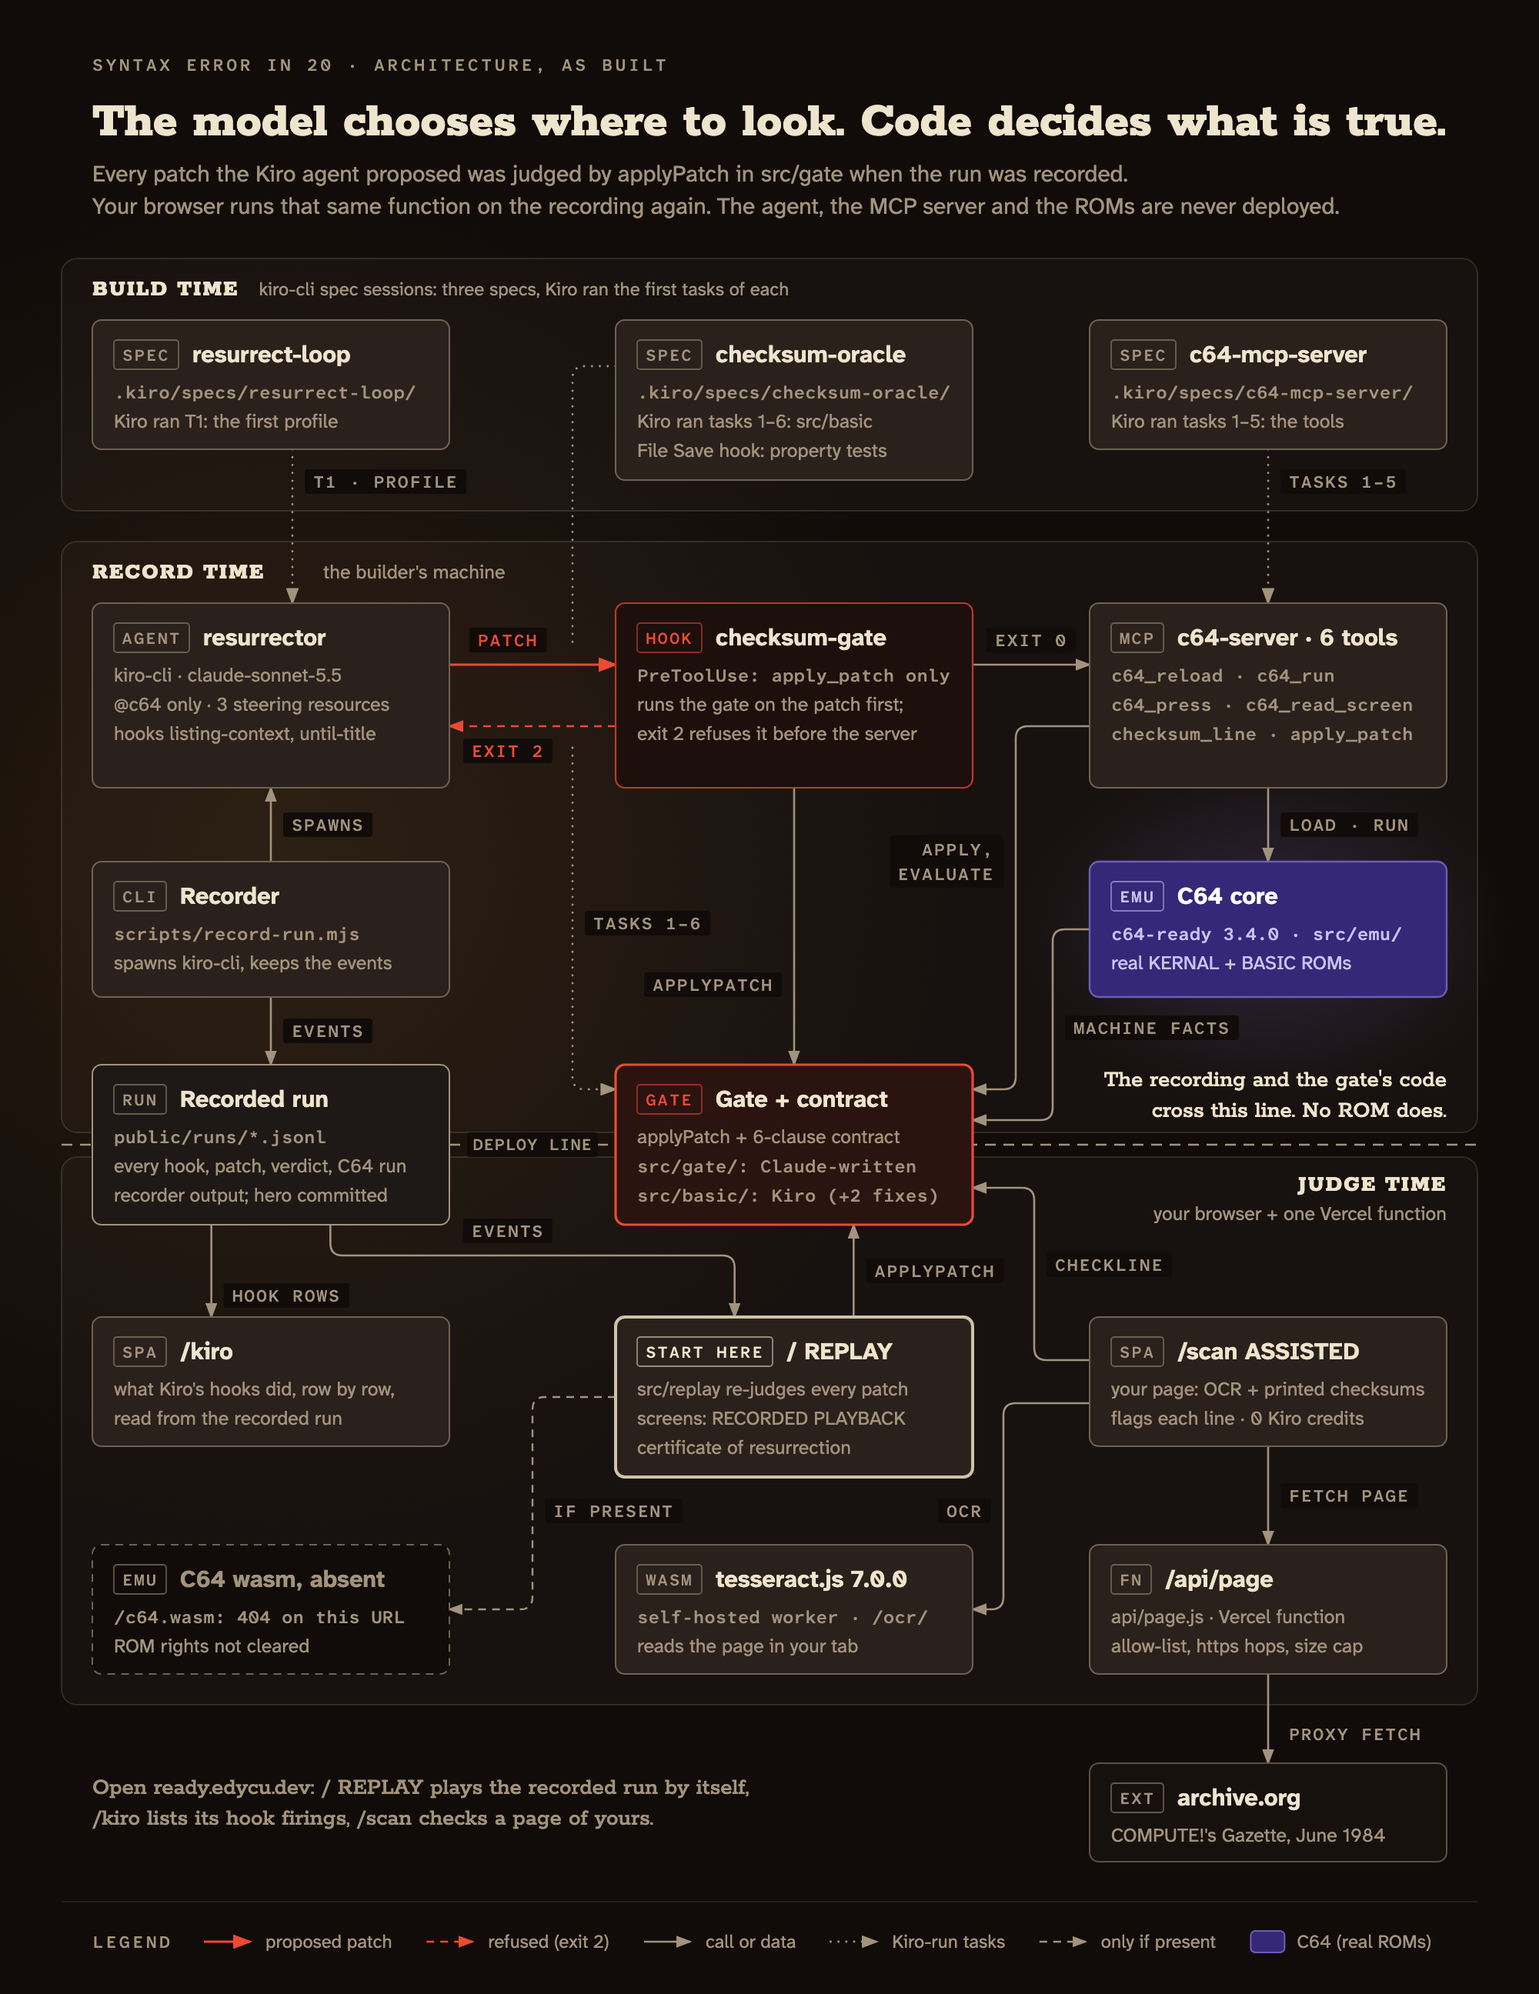
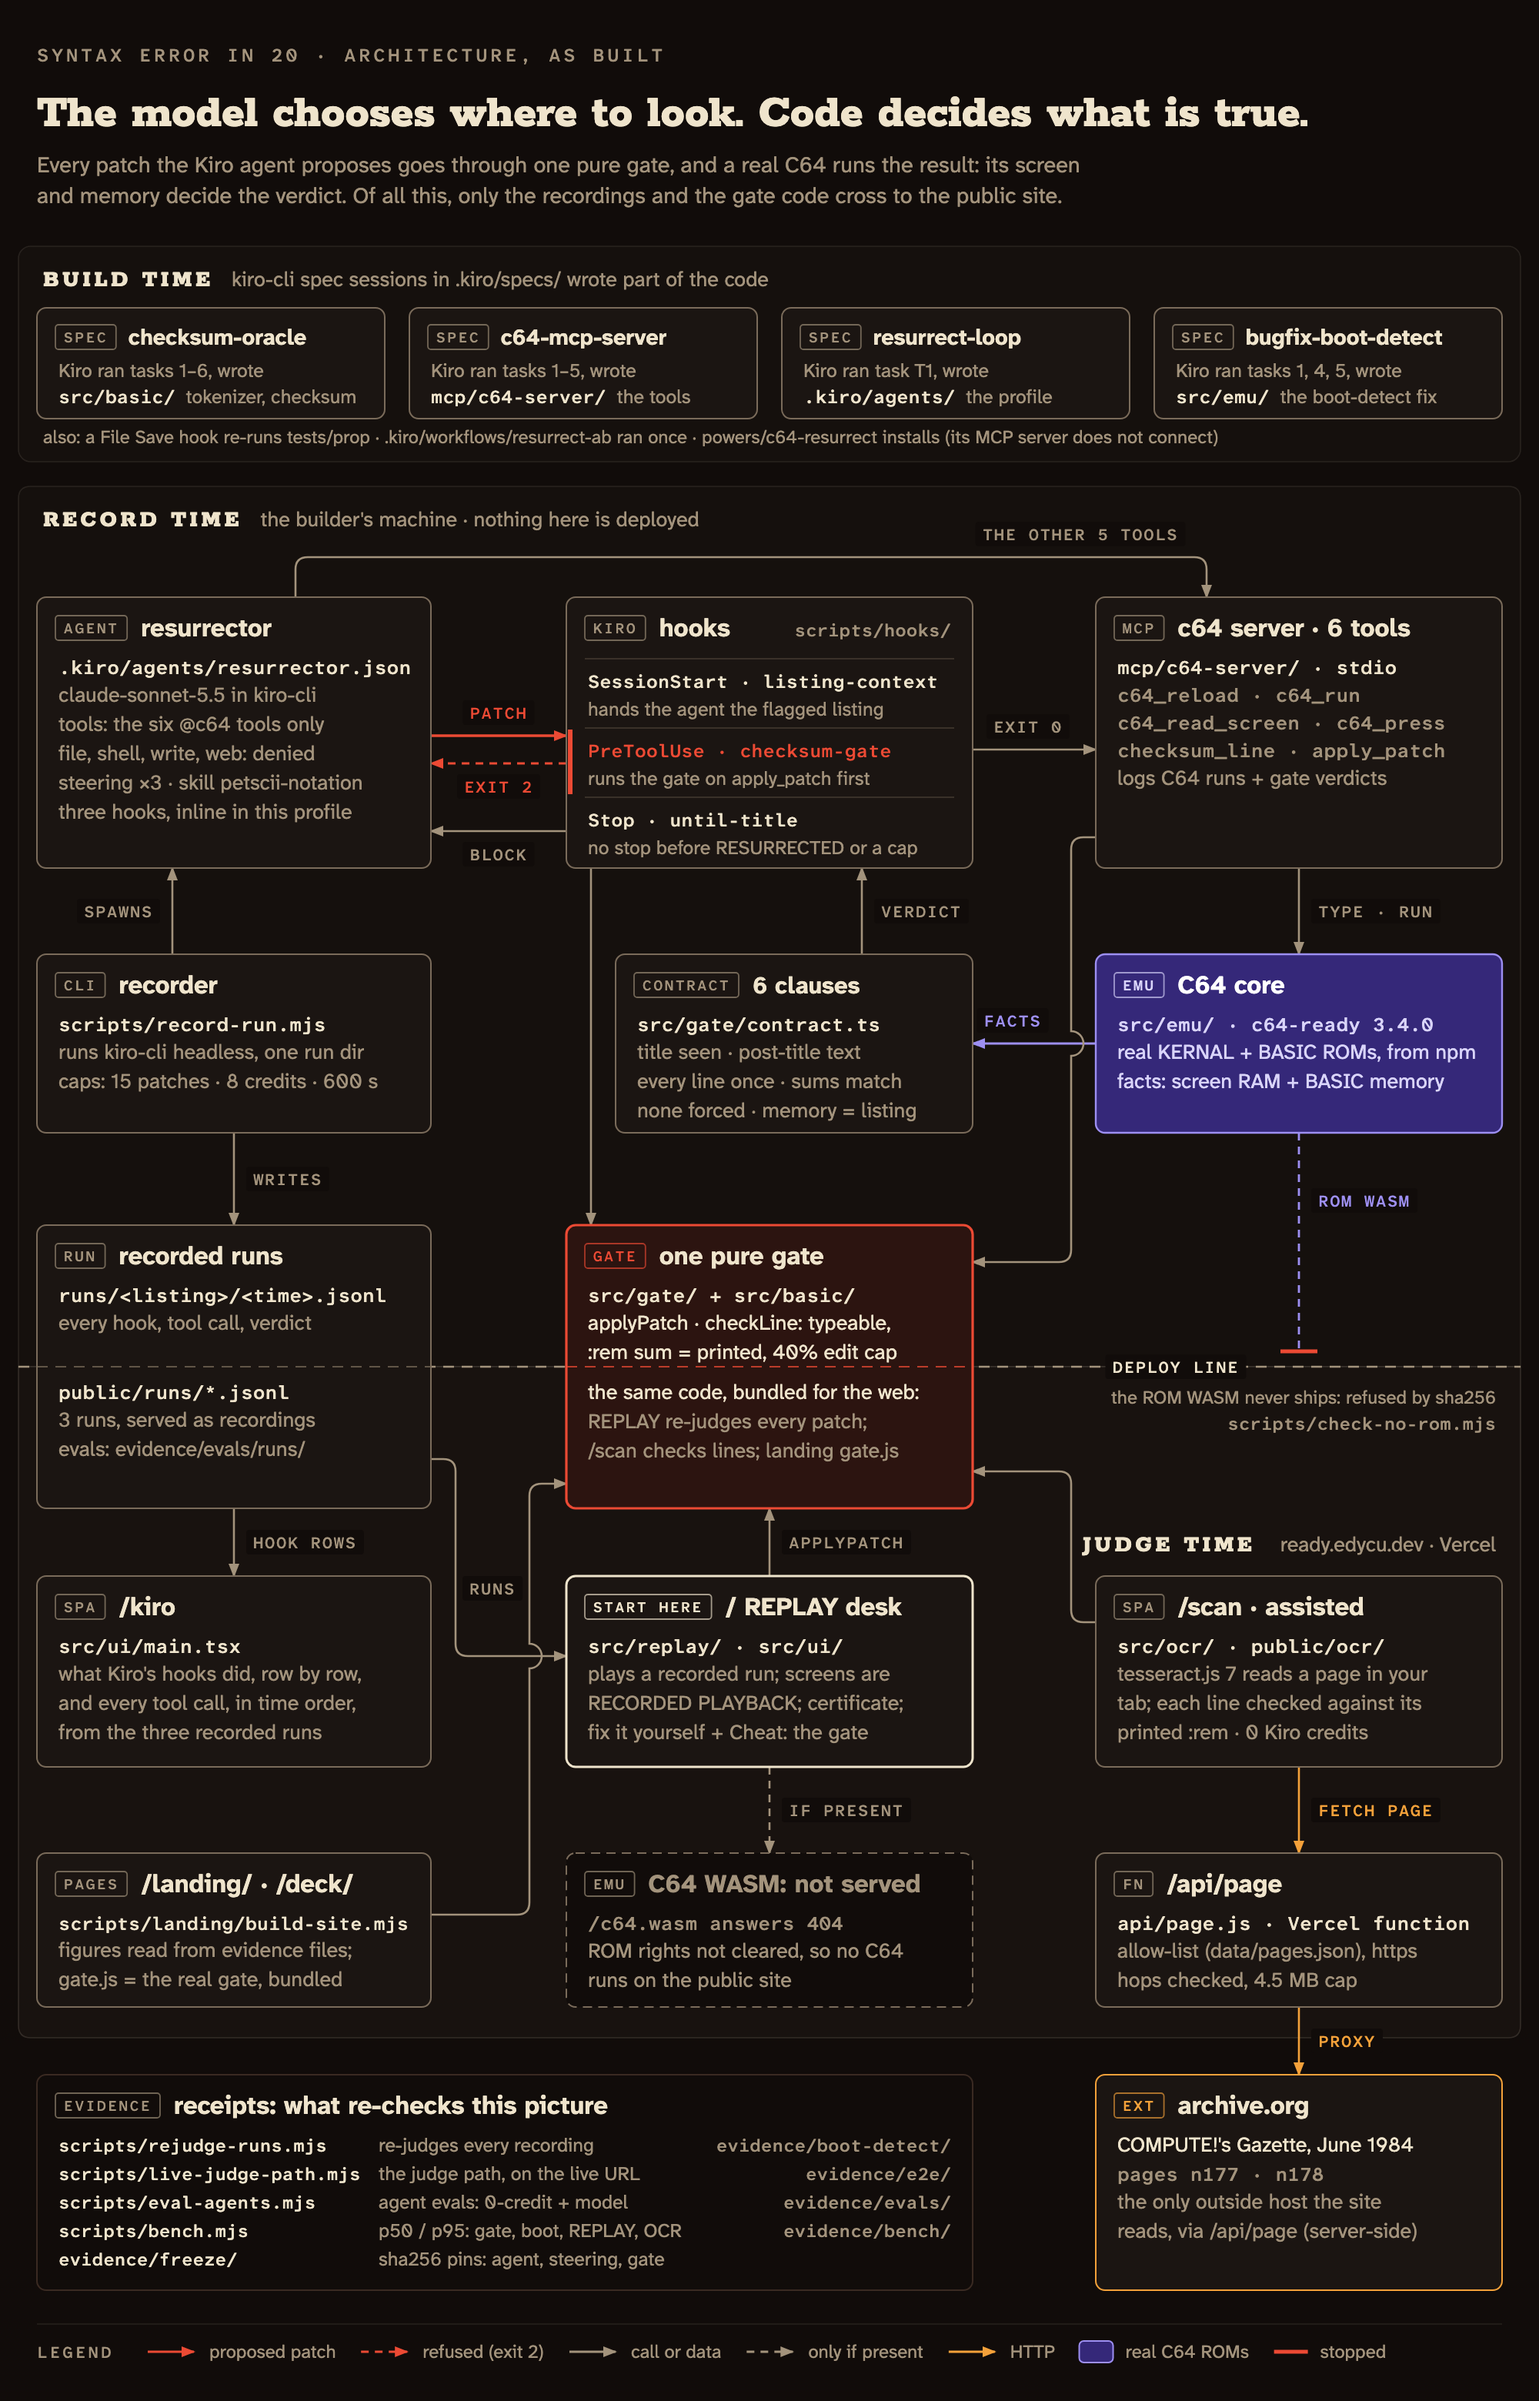
docs: architecture diagram v2, drawn from the code as built — one pure gate on the deploy line with its five callers (PreToolUse hook, MCP apply_patch, REPLAY, /scan checkLine, landing gate.js), the hook/stop/verdict loop, the 6-clause contract fed by the C64's facts, the ROM WASM stopped by sha256,

diff --git a/ARCHITECTURE.md b/ARCHITECTURE.md
@@ -1,45 +1,66 @@
 # Architecture
 
-Three times matter: **build time** (Kiro specs and tasks wrote the tokenizer/checksum oracle and the MCP tool layer; the gate, contract, `server.ts` and REPLAY were `claude-direct`), **record time** (a Kiro
+Three times matter: **build time** (Kiro specs and tasks wrote the tokenizer/checksum oracle, the MCP tool layer, the agent
+profile and the boot-detect fix; the gate, contract, `server.ts` and REPLAY were `claude-direct`), **record time** (a Kiro
 agent fixes a listing through the gate on the builder's machine), and **judge time** (the visitor's browser replays and
-re-judges that recording). Everything below exists in this repository.
+re-judges that recording). One pure gate, `src/gate/`, sits on the deploy line: the Kiro PreToolUse hook and the MCP
+server call it at record time, and REPLAY, `/scan` and the landing page's `gate.js` call the same file in the browser.
+Everything below exists in this repository.
 
-<img src="docs/architecture.png" alt="Architecture, as built, at three times. Build time: three Kiro specs run in kiro-cli sessions; Kiro ran the first tasks of each, writing the tokenizer, the checksum and the MCP tools. Record time, on the builder's machine: a recorder spawns the Kiro agent resurrector; its apply_patch calls pass the PreToolUse checksum-gate hook (exit 2 refuses) to a six-tool MCP server that drives a C64 core with the real ROMs and calls the gate and its contract. The recorded run and the gate's code cross to the browser; the agent, the MCP server and the ROMs are never deployed. At ready.edycu.dev, REPLAY re-runs the gate on every recorded patch over recorded screens, /kiro lists the hook firings, and /scan reads a page with self-hosted tesseract.js and checks each line against its printed checksum and flags the mismatches, fetching page images from archive.org through one allow-listed Vercel function. No C64 runs on the public URL." width="100%">
+<img src="docs/architecture.png" alt="Architecture, as built. Build time: four Kiro specs (checksum-oracle, c64-mcp-server, resurrect-loop, bugfix-boot-detect) wrote src/basic, the MCP tools, the agent profile and the boot-detect fix. Record time, on the builder's machine: the recorder spawns the Kiro agent resurrector (claude-sonnet-5.5, only the six @c64 tools); its apply_patch calls pass the PreToolUse checksum-gate hook (exit 2 refuses) to a six-tool MCP server, the other five tools go straight to the server; the server types and runs the listing on a C64 core with the real ROMs, the C64's screen and memory feed a six-clause contract, and the Stop hook until-title blocks the agent's stop until the contract says RESURRECTED or a cap hits. One pure gate in src/gate straddles the deploy line, called by the hook and the MCP server above it and by REPLAY, /scan and the landing page below it. The recorded runs straddle the line too; the ROM-bearing C64 WASM is stopped at it by a sha256 check. At ready.edycu.dev: / REPLAY re-judges every recorded patch over recorded screens, /kiro lists the hook firings, /scan reads a page with self-hosted tesseract.js and checks each line against its printed checksum, fetching archive.org pages through the /api/page function. Receipts: rejudge-runs, live-judge-path, eval-agents, bench and the sha256 freeze pins." width="100%">
 
 The same map as text:
 
 ```mermaid
-flowchart LR
-  subgraph record["Record time (builder machine)"]
-    REC["scripts/record-run.mjs"] --> KIRO["kiro-cli: agent resurrector (.kiro/agents)"]
-    KIRO -->|"MCP stdio, 6 tools"| MCP["mcp/c64-server"]
-    HOOKS["hooks: listing-context, checksum-gate, until-title (+ prop-tests-on-save at build time)"] -.-> KIRO
-    STEER[".kiro/steering + skill petscii-notation"] -.-> KIRO
-    MCP --> GATE["src/gate: applyPatch + 6-clause contract"]
-    MCP --> EMU["src/emu: c64-ready core"]
-    GATE --> BAS["src/basic: tokenizer, checksum"]
-    REC --> RUNS["runs/listing/iso.jsonl; the hero run is committed in public/runs"]
+flowchart TB
+  subgraph build["Build time: kiro-cli spec sessions (.kiro/specs/)"]
+    S1["checksum-oracle: tasks 1–6 → src/basic/"]
+    S2["c64-mcp-server: tasks 1–5 → mcp/c64-server/"]
+    S3["resurrect-loop: T1 → .kiro/agents/"]
+    S4["bugfix-boot-detect: tasks 1, 4, 5 → src/emu/"]
   end
-  subgraph judge["Judge time (visitor's browser, ready.edycu.dev)"]
-    SPA["src/ui: Preact SPA (/, /scan, /kiro)"] --> REPLAY["src/replay: re-judge every patch"]
-    RUNS --> REPLAY
-    REPLAY --> GATE2["same gate + tokenizer code (no C64 ROM here: screens are recorded)"]
-    SPA --> OCR["src/ocr: tesseract.js 7 worker"]
-    OCR --> FLAG["checksum flags per line"]
-    SPA -->|"fetch"| API["api/page.js (Vercel function)"]
-    API --> ARCH["archive.org page image"]
+  subgraph record["Record time: the builder's machine (nothing here is deployed)"]
+    REC["recorder: scripts/record-run.mjs + runner/ (caps 15 patches, 8 credits, 600 s)"] -->|spawns kiro-cli| AGENT["agent resurrector: .kiro/agents/resurrector.json (@c64 tools only)"]
+    AGENT -->|apply_patch| HOOK["PreToolUse hook checksum-gate (scripts/hooks/)"]
+    HOOK -->|exit 2: refused| AGENT
+    HOOK -->|exit 0| MCP["MCP server c64: mcp/c64-server/ (6 tools, stdio)"]
+    AGENT -->|the other 5 tools| MCP
+    MCP -->|type, run| EMU["C64 core: src/emu/ + c64-ready 3.4.0 (real ROMs, npm)"]
+    EMU -->|screen RAM + BASIC memory| CON["contract: src/gate/contract.ts (6 clauses)"]
+    CON -->|verdict| STOP["Stop hook until-title"]
+    STOP -->|block: keep going| AGENT
+    REC -->|writes| RUNS["recorded runs: runs/<listing>/<time>.jsonl → public/runs/*.jsonl"]
   end
+  GATE["one pure gate: src/gate/ + src/basic/ (applyPatch, checkLine) — bundled on both sides"]
+  HOOK --> GATE
+  MCP --> GATE
+  EMU -. "ROM WASM: refused by sha256 (scripts/check-no-rom.mjs)" .-x DEPLOY(["deploy line"])
+  subgraph judge["Judge time: ready.edycu.dev on Vercel"]
+    REPLAY["/ REPLAY desk: src/replay/ + src/ui/ (RECORDED PLAYBACK)"] --> GATE
+    SCAN["/scan: src/ocr/ + self-hosted tesseract.js 7 (public/ocr/)"] -->|checkLine| GATE
+    LAND["/landing/ + /deck/: scripts/landing/build-site.mjs (gate.js)"] --> GATE
+    KIRO["/kiro: hook rows + tool calls"]
+    REPLAY -. "if present" .-> WASM["/c64.wasm: not served (404)"]
+    SCAN -->|fetch page| API["api/page.js (Vercel function)"]
+    API -->|proxy| ARCH["archive.org: COMPUTE!'s Gazette, June 1984"]
+  end
+  RUNS --> REPLAY
+  RUNS --> KIRO
 ```
 
 | Component | Path | Notes |
 |---|---|---|
-| C64 core | `src/emu/core.ts`, `node.ts`, `session.ts` | `c64-ready` 3.4.0 over the real KERNAL/BASIC; the ROM-bearing WASM is never deployed (`scripts/check-no-rom.mjs`) |
-| Tokenizer, notation, checksum | `src/basic/` | KERNAL-equality property test against the real core |
-| Gate and contract | `src/gate/checksum-gate.ts`, `contract.ts` | decides line status and the RESURRECTED / BOOTED-PARTIAL / NOT-RESURRECTED verdict |
+| Kiro specs | `.kiro/specs/` | `checksum-oracle`, `c64-mcp-server`, `resurrect-loop`, `bugfix-boot-detect`; which tasks Kiro ran is in [`docs/DX-REPORT.md`](docs/DX-REPORT.md) |
+| Agent | `.kiro/agents/resurrector.json` | `claude-sonnet-5.5`; `@c64` tools only; file read, shell, write and web denied; 3 steering files + skill `petscii-notation` as resources; its three hooks are inline |
+| Hooks | `scripts/hooks/`; `.kiro/hooks/prop-tests-on-save.json` | SessionStart `listing-context`, PreToolUse `checksum-gate` (matcher `@c64/apply_patch`, exit 2 refuses), Stop `until-title`; File Save `prop-tests-on-save` runs `tests/prop` at build time |
+| Recorder | `scripts/record-run.mjs`, `runner/` | spawns `kiro-cli` headless with one run dir, merges the hook and server events into the run; caps 15 patches, 8 credits, 600 s |
 | MCP server | `mcp/c64-server/` | tools `c64_reload`, `c64_run`, `c64_read_screen`, `c64_press`, `checksum_line`, `apply_patch`; no `node:` import in `tools.ts` |
-| Agent | `.kiro/agents/resurrector.json` | `@c64` tools only; file read, shell, write and web denied |
-| Hooks | inline in the agent profile; `.kiro/hooks/prop-tests-on-save.json` | scripts in `scripts/hooks/` |
+| C64 core | `src/emu/core.ts`, `node.ts`, `session.ts` | `c64-ready` 3.4.0 over the real KERNAL/BASIC; the ROM-bearing WASM is never deployed (`scripts/check-no-rom.mjs`) |
+| Gate | `src/gate/checksum-gate.ts`, `src/basic/` | `applyPatch` and `checkLine`: typeable, `:rem` checksum equals the printed one (or fits only a misread printed digit), 40% edit cap; pure and isomorphic, so one file runs in the hook, the MCP server and the browser |
+| Contract | `src/gate/contract.ts` | 6 clauses (title seen, post-title text, every line once, checksums, none forced, C64 memory equals the tokenized listing) → RESURRECTED / BOOTED-PARTIAL / NOT-RESURRECTED; needs a C64 core, so it is not recomputed on the public site |
 | REPLAY | `src/replay/` | in the deployed browser (RECORDED PLAYBACK): the gate re-judges every patch over the recorded screens and the certificate shows the recorded verdict; with the C64 core (node, `vite dev`) it also re-runs each accepted patch and recomputes the contract; `certificate.ts` renders it |
-| OCR | `src/ocr/` | self-hosted tesseract.js 7.0.0 worker, per-column reading for two-column pages |
-| Page proxy | `api/page.js` | plain JS (the build tool cannot read TypeScript 7); host allow-list, https-only redirects checked per hop, streamed byte cap |
-| Hosting | `vercel.json`, `.github/workflows/` | Vercel only; `ci.yml` and `deploy.yml` |
+| OCR | `src/ocr/` | self-hosted tesseract.js 7.0.0 worker (`public/ocr/`), per-column reading for two-column pages; `flag.ts` checks each line with the gate's `checkLine` |
+| Landing + deck | `scripts/landing/build-site.mjs` → `public/landing/`, `public/deck/` | figures read from the run log and evidence files; `gate.js` is the real gate, bundled |
+| Page proxy | `api/page.js` | plain JS (the build tool cannot read TypeScript 7); host allow-list (`data/pages.json`), https-only redirects checked per hop, streamed byte cap |
+| Evidence | `scripts/rejudge-runs.mjs`, `scripts/live-judge-path.mjs`, `scripts/eval-agents.mjs`, `scripts/bench.mjs`, `evidence/` | every recording re-judged by current code, the judge path on the live URL, agent evals, benchmarks; `evidence/freeze/` pins the sha256 of the files the agent and the gate run on |
+| Hosting + CI | `vercel.json`, `.github/workflows/` | Vercel only; see the workflow files |

diff --git a/README.md b/README.md
@@ -76,9 +76,9 @@ computed from the machine's screen and memory plus the listing's checksums, not 
 
 ## 🏗 Architecture & Tech Stack
 
-<img src="docs/architecture.png" alt="Architecture, as built, at three times. Build time: three Kiro specs run in kiro-cli sessions; Kiro ran the first tasks of each, writing the tokenizer, the checksum and the MCP tools. Record time, on the builder's machine: a recorder spawns the Kiro agent resurrector; its apply_patch calls pass the PreToolUse checksum-gate hook (exit 2 refuses) to a six-tool MCP server that drives a C64 core with the real ROMs and calls the gate and its contract. The recorded run and the gate's code cross to the browser; the agent, the MCP server and the ROMs are never deployed. At ready.edycu.dev, REPLAY re-runs the gate on every recorded patch over recorded screens, /kiro lists the hook firings, and /scan reads a page with self-hosted tesseract.js and checks each line against its printed checksum and flags the mismatches, fetching page images from archive.org through one allow-listed Vercel function. No C64 runs on the public URL." width="100%">
+<img src="docs/architecture.png" alt="Architecture, as built. Build time: four Kiro specs (checksum-oracle, c64-mcp-server, resurrect-loop, bugfix-boot-detect) wrote src/basic, the MCP tools, the agent profile and the boot-detect fix. Record time, on the builder's machine: the recorder spawns the Kiro agent resurrector (claude-sonnet-5.5, only the six @c64 tools); its apply_patch calls pass the PreToolUse checksum-gate hook (exit 2 refuses) to a six-tool MCP server, the other five tools go straight to the server; the server types and runs the listing on a C64 core with the real ROMs, the C64's screen and memory feed a six-clause contract, and the Stop hook until-title blocks the agent's stop until the contract says RESURRECTED or a cap hits. One pure gate in src/gate straddles the deploy line, called by the hook and the MCP server above it and by REPLAY, /scan and the landing page below it. The recorded runs straddle the line too; the ROM-bearing C64 WASM is stopped at it by a sha256 check. At ready.edycu.dev: / REPLAY re-judges every recorded patch over recorded screens, /kiro lists the hook firings, /scan reads a page with self-hosted tesseract.js and checks each line against its printed checksum, fetching archive.org pages through the /api/page function. Receipts: rejudge-runs, live-judge-path, eval-agents, bench and the sha256 freeze pins." width="100%">
 
-Drawn from the code as built: the table below and [`ARCHITECTURE.md`](ARCHITECTURE.md) give the path behind each component, and ARCHITECTURE.md has the same map as text.
+Drawn from the code as built: one pure gate (`src/gate/`) sits on the deploy line, called by the Kiro hook and the MCP server at record time and by REPLAY, `/scan` and the landing page in your browser. The table below and [`ARCHITECTURE.md`](ARCHITECTURE.md) give the path behind each component, and ARCHITECTURE.md has the same map as text.
 
 | Layer | What | Where |
 |---|---|---|
